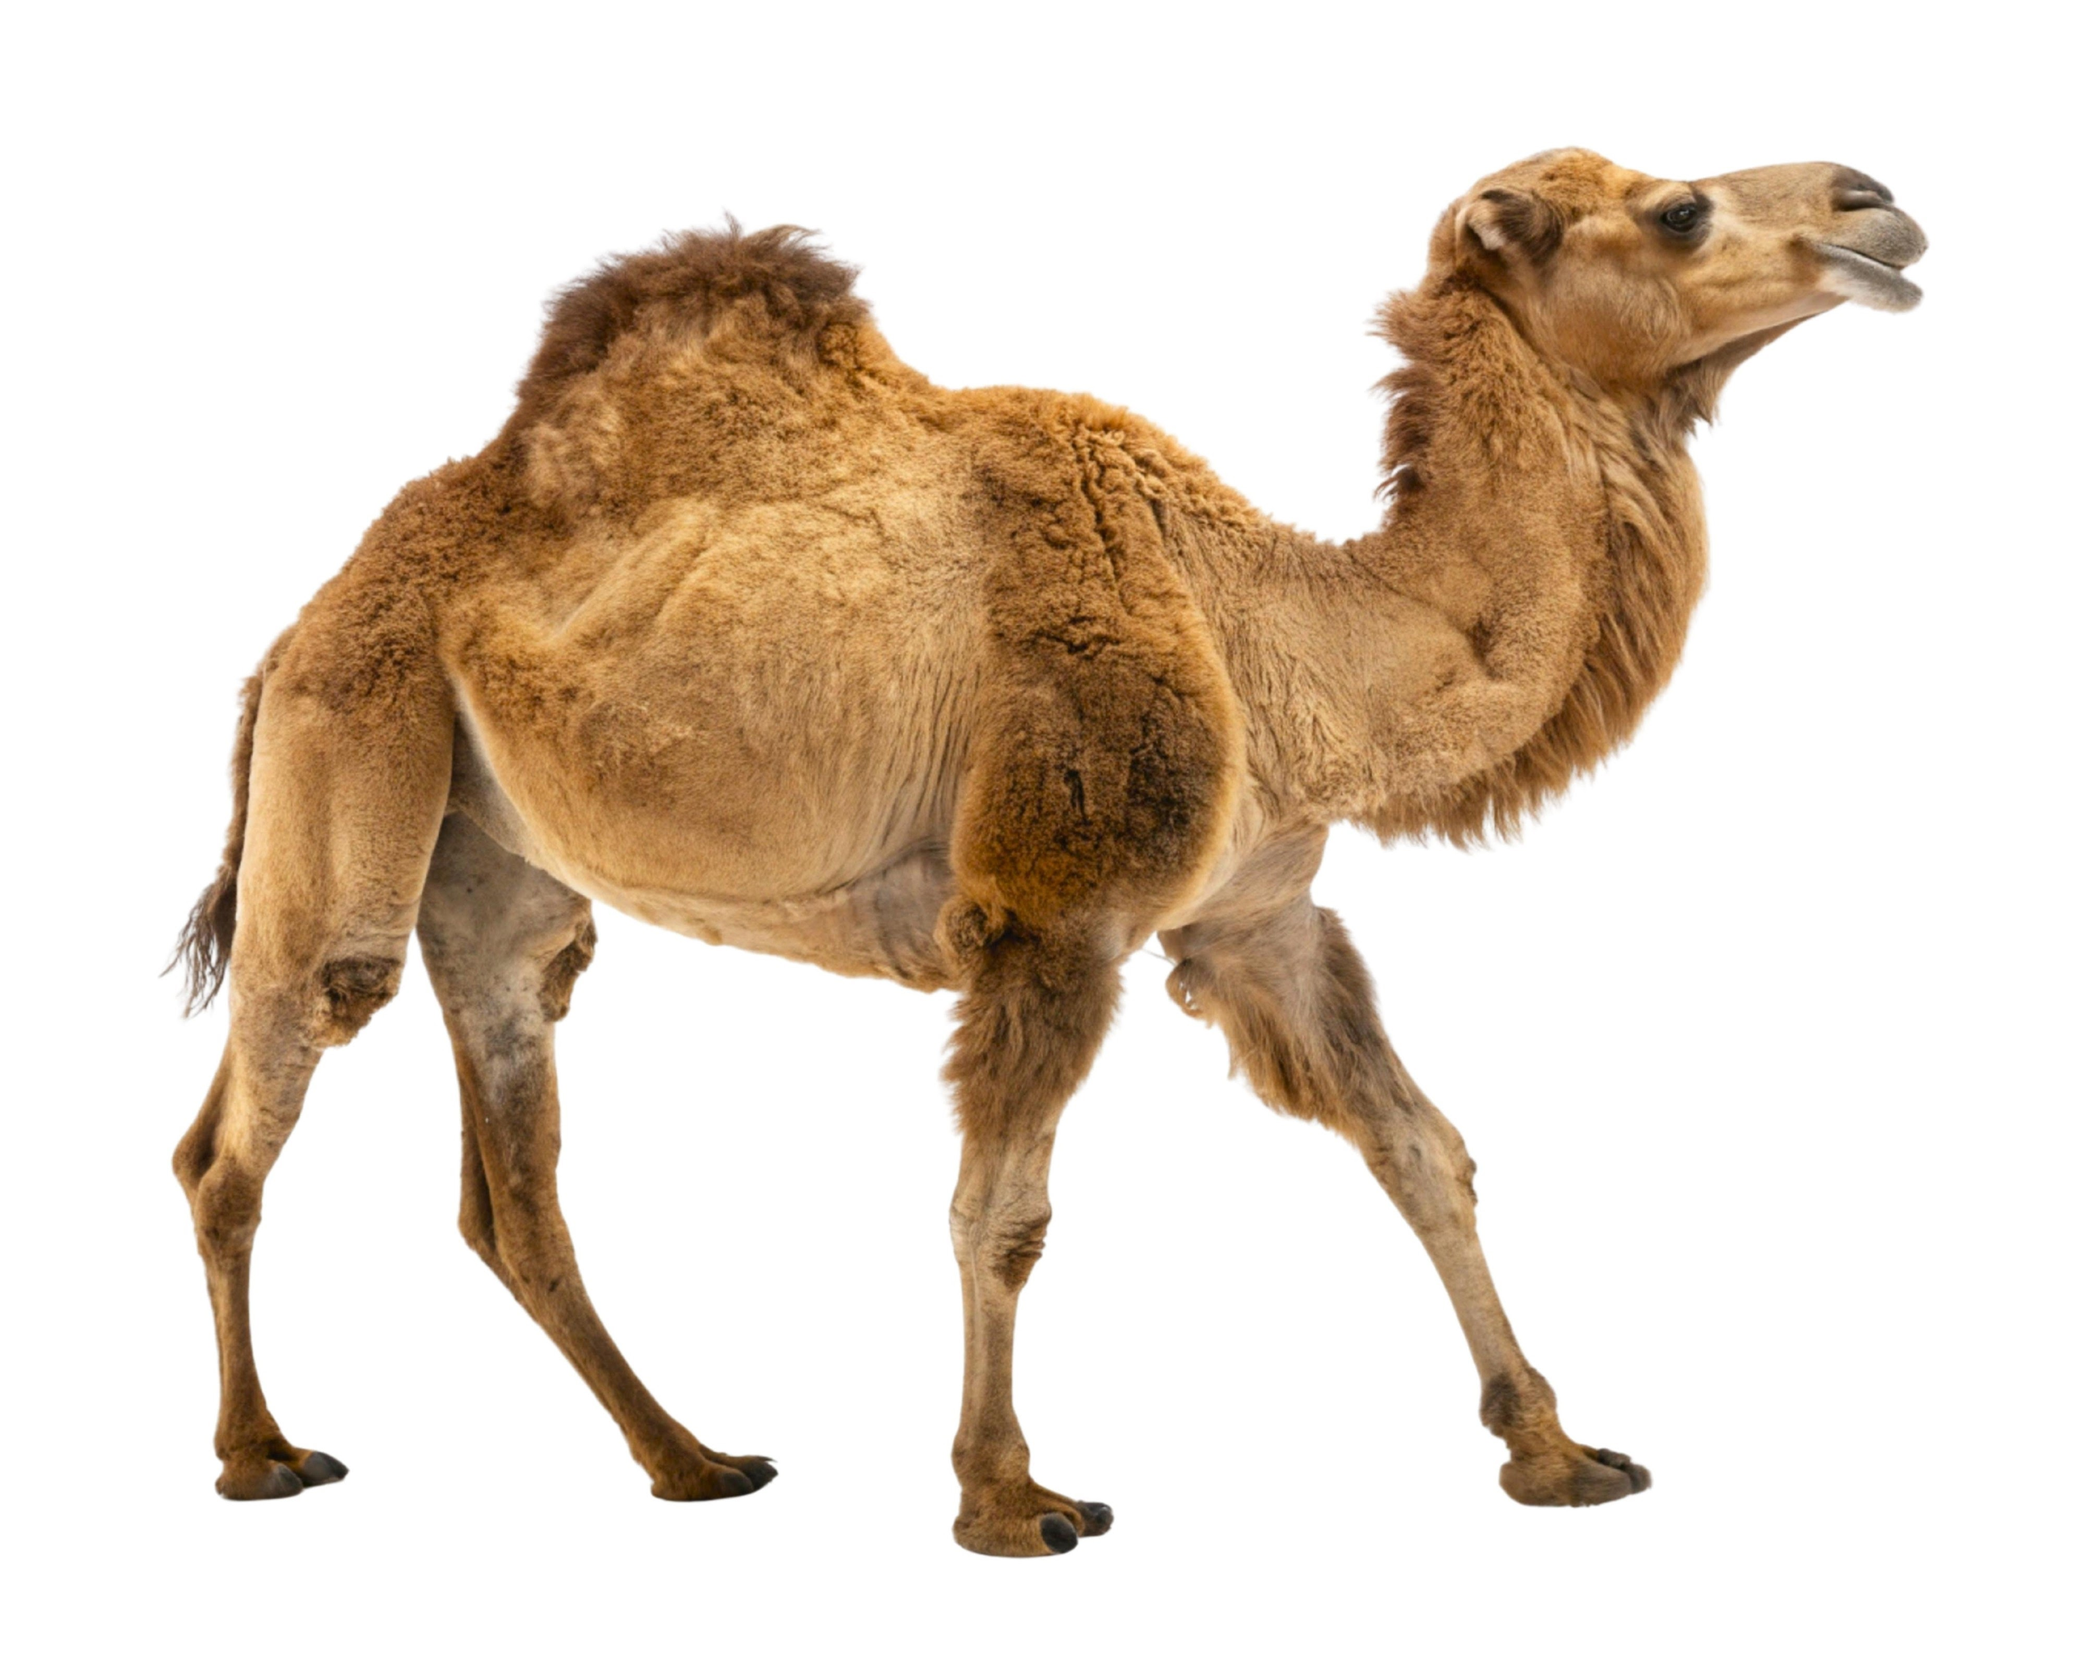
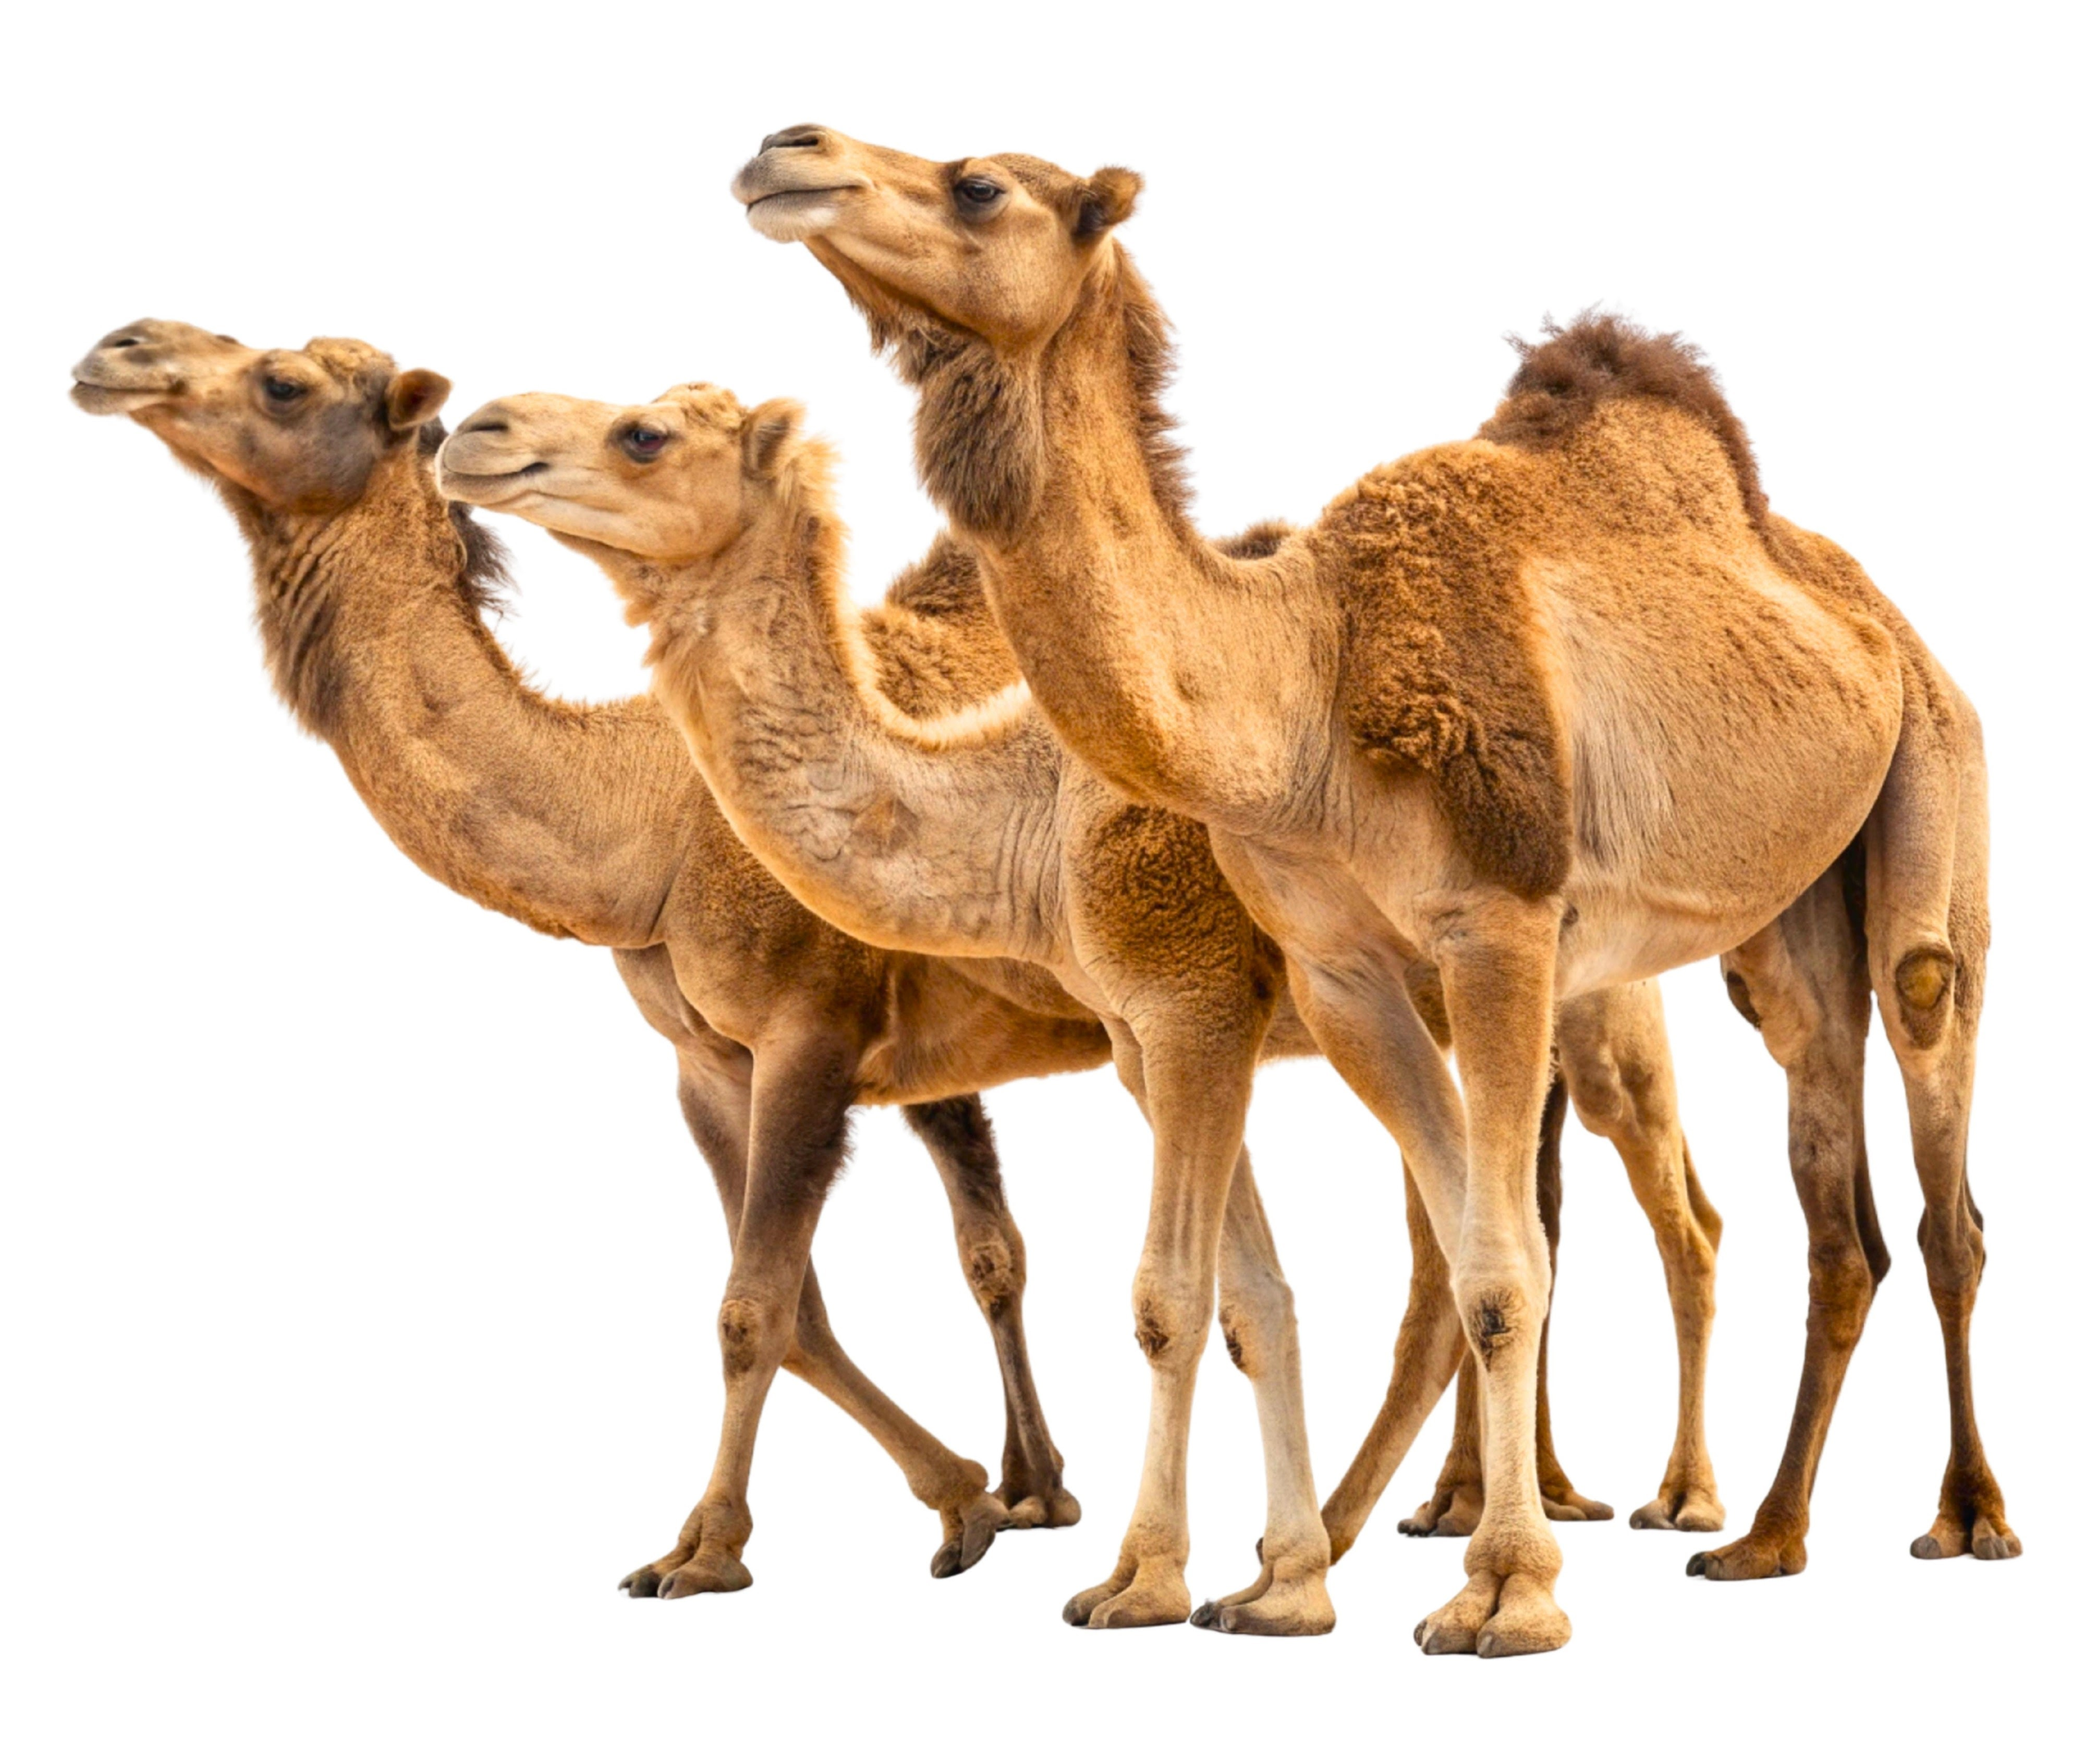
جيم

diff --git a/app/utils/data/level2.ts b/app/utils/data/level2.ts
@@ -349,9 +349,9 @@ export const getLevel2Lessons = (t: (key: string) => string): Lesson[] => {
             title: t('Letter Jeem Lesson'),
             type: 'letterExamples',
             items: [
-                { id: 1, text: t('Soldiers'), image: '/level2/11/soldiers.jpg', letter: 'جُ', highlight: 'ج' },
-                { id: 2, text: t('Camels'), image: '/level2/11/camels.jpg', letter: 'جِ', highlight: 'ج' },
-                { id: 3, text: t('Carrots'), image: '/level2/11/carrots.jpg', letter: 'جَ', highlight: 'ج' },
+                { id: 1, text: t('Carrots'), image: '/level2/11/carrots.jpg', letter: 'جَ', highlight: 'ج', listenImage: '/level2/11/listen/1_large.png', readImage: '/level2/11/read/1.png' },
+                { id: 2, text: t('Camels'), image: '/level2/11/camels.jpg', letter: 'جِ', highlight: 'ج', listenImage: '/level2/11/listen/2_large.png', readImage: '/level2/11/read/2.png' },
+                { id: 3, text: t('Soldiers'), image: '/level2/11/soldiers.jpg', letter: 'جُ', highlight: 'ج', listenImage: '/level2/11/listen/3_large.png', readImage: '/level2/11/read/3.png' },
             ],
             distinguish: [
                 { id: 1, badge: 'ا', long: 'جَا', short: 'جَ' },
@@ -391,6 +391,22 @@ export const getLevel2Lessons = (t: (key: string) => string): Lesson[] => {
                 }
             ],
             audioUrl: '/level2/11/11.wav',
+            watchAudio: '/level2/11/1.mp3',
+            listenAudio: '/level2/11/2.mp3',
+            readAudio: '/level2/11/3.mp3',
+            writeAudio: '/level2/11/4.mp3',
+            distinguishAudio: '/level2/11/5.mp3',
+            thinkAudio: '/level2/11/7.mp3',
+            circleAudio: '/level2/11/6.mp3',
+            writingImages: ['/level2/11/write_1.png', '/level2/11/write_2.png'],
+            remember: ['أَ', 'إِ', 'أُ', 'بَ', 'بِ', 'بُ', 'تَ', 'تِ', 'تُ', 'ثَ', 'ثِ', 'ثُ', 'جَ', 'جِ', 'جُ'],
+            rememberAudio: '/level2/11/remember.mp3',
+            assemble: [
+                { id: 1, letters: ['تَا', 'ج'], word: 'تَاج' },
+                { id: 2, letters: ['جُ', 'بّ'], word: 'جُبّ' },
+                { id: 3, letters: ['جَا', 'بَ'], word: 'جَابَ' }
+            ],
+            assembleAudio: '/level2/11/assemble.mp3',
         },
         {
             id: 12,

diff --git a/app/pages/part/[partId]/lesson/[lessonId].vue b/app/pages/part/[partId]/lesson/[lessonId].vue
@@ -456,7 +456,7 @@
               <!-- Images Row -->
               <div class="grid grid-cols-1 md:grid-cols-3 gap-4 md:gap-8">
                   <div v-for="item in lesson.items" :key="'img-' + item.id" class="aspect-[4/3] rounded-2xl overflow-hidden shadow-lg border-4 border-white transform hover:scale-105 transition-transform duration-300 bg-white">
-                      <img :src="item.image" :alt="item.text" class="w-full h-full object-contain">
+                      <img :src="item.image" :alt="item.text" class="w-full h-full object-cover">
                   </div>
               </div>
 
@@ -478,7 +478,7 @@
                            <!-- Image Mode -->
                            <template v-if="item.listenImage">
                                <div class="relative w-full flex-grow flex items-center justify-center overflow-hidden">
-                                   <img :src="item.listenImage" class="max-w-full max-h-full object-contain" />
+                                   <img :src="item.listenImage" class="max-w-full max-h-full object-cover" />
                                </div>
                                <span v-if="locale === 'en'" class="text-lg font-bold text-gray-800 mt-1 shrink-0 font-sans">{{ item.text }}</span>
                            </template>
